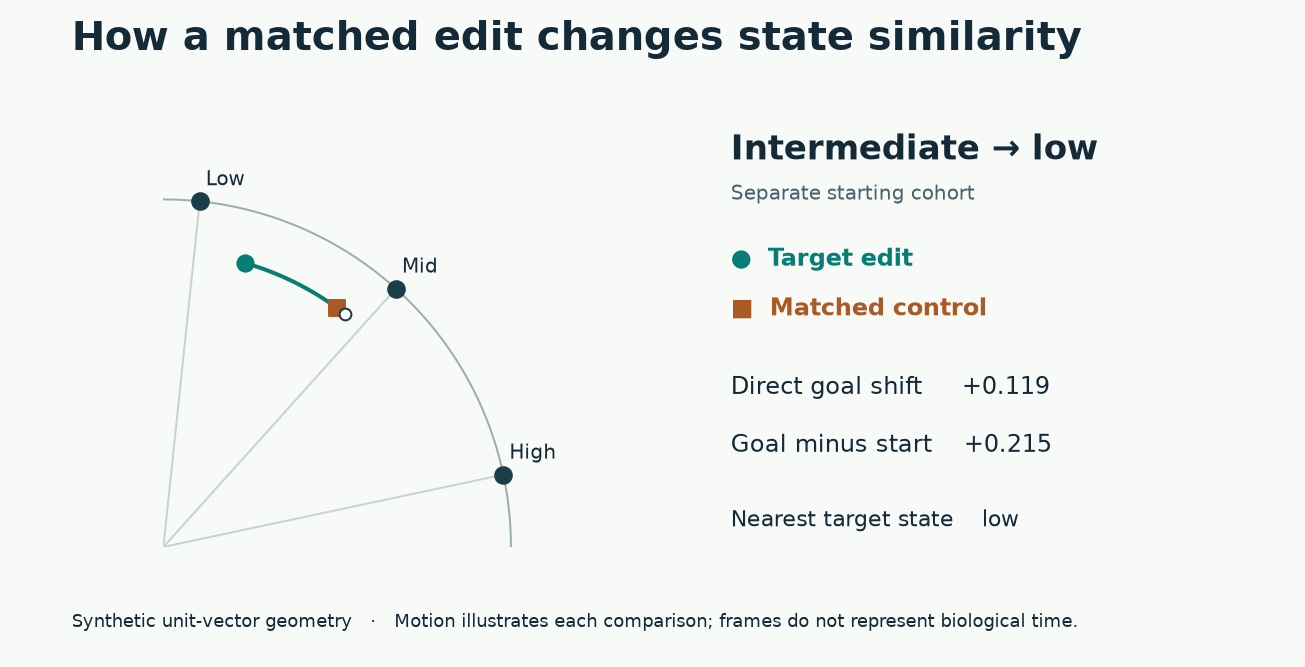
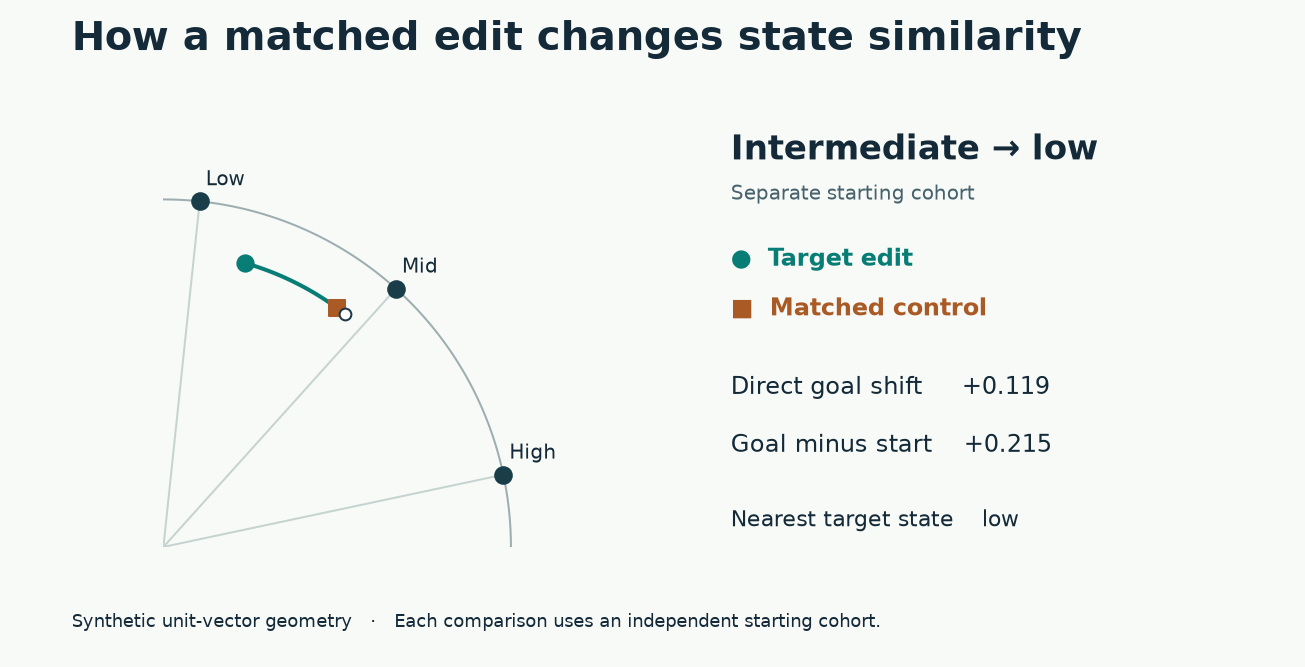
Install the numerical gate dependency for continuous benchmarks

Changed region(s): [[0.3065, 0.8996, 0.8276, 0.9595]]

diff --git a/figures/src/ordered_states.py b/figures/src/ordered_states.py
@@ -90,7 +90,7 @@ fig.text(
 fig.text(
     0.055,
     0.06,
-    "Synthetic unit-vector geometry   ·   Motion illustrates each comparison; frames do not represent biological time.",
+    "Synthetic unit-vector geometry   ·   Each comparison uses an independent starting cohort.",
     fontsize=9,
 )
 ani = FuncAnimation(fig, draw, frames=72, interval=110)
